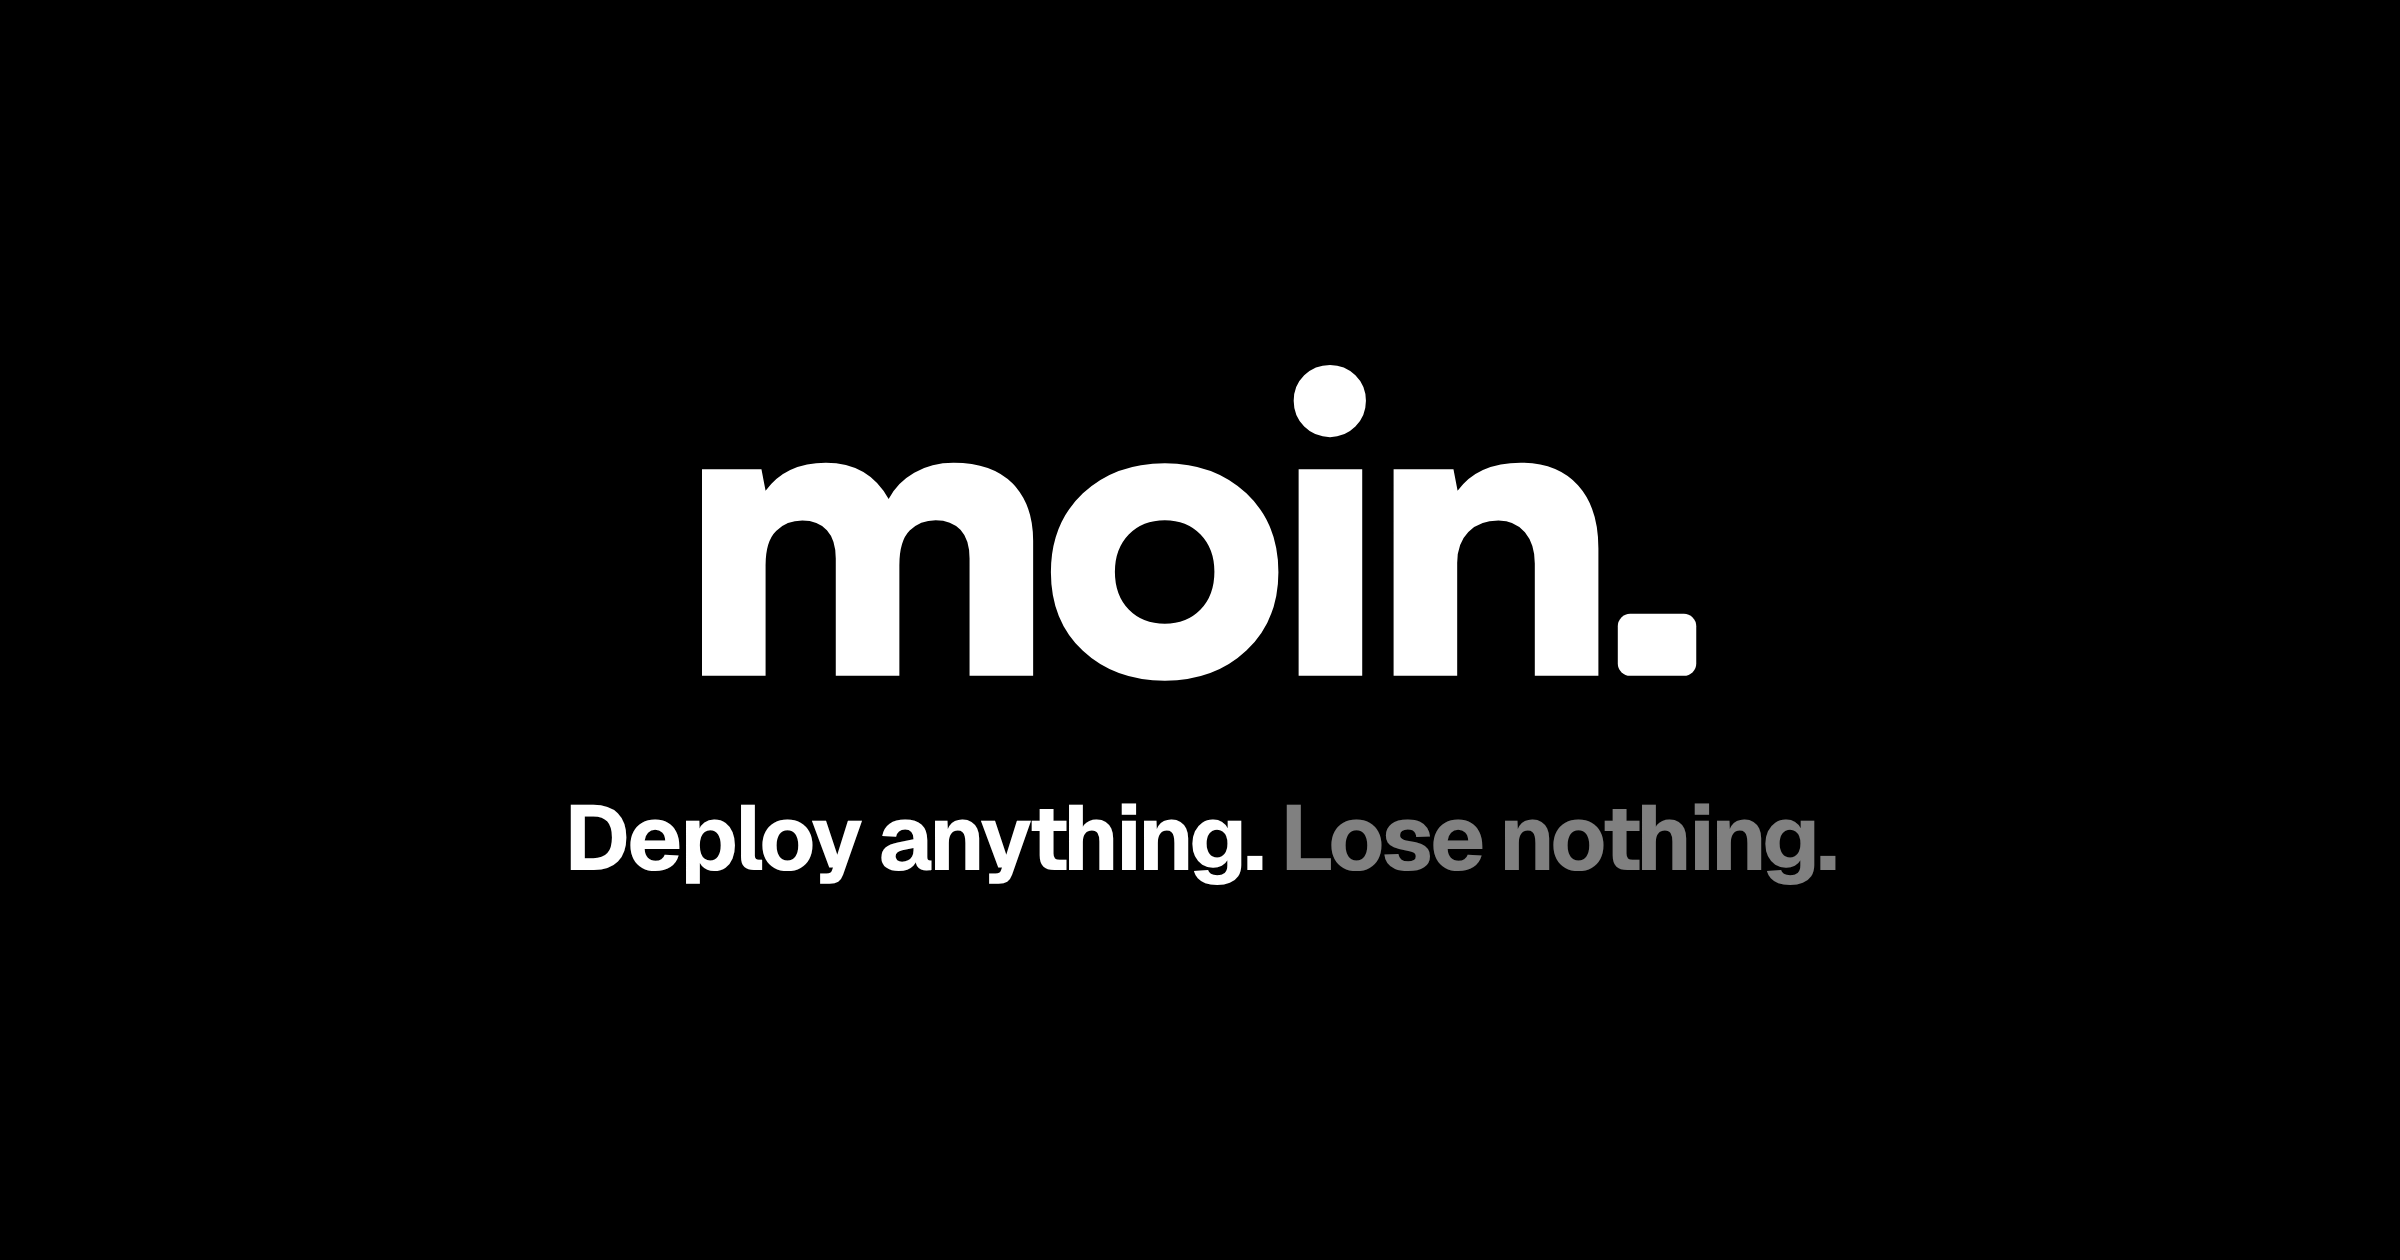
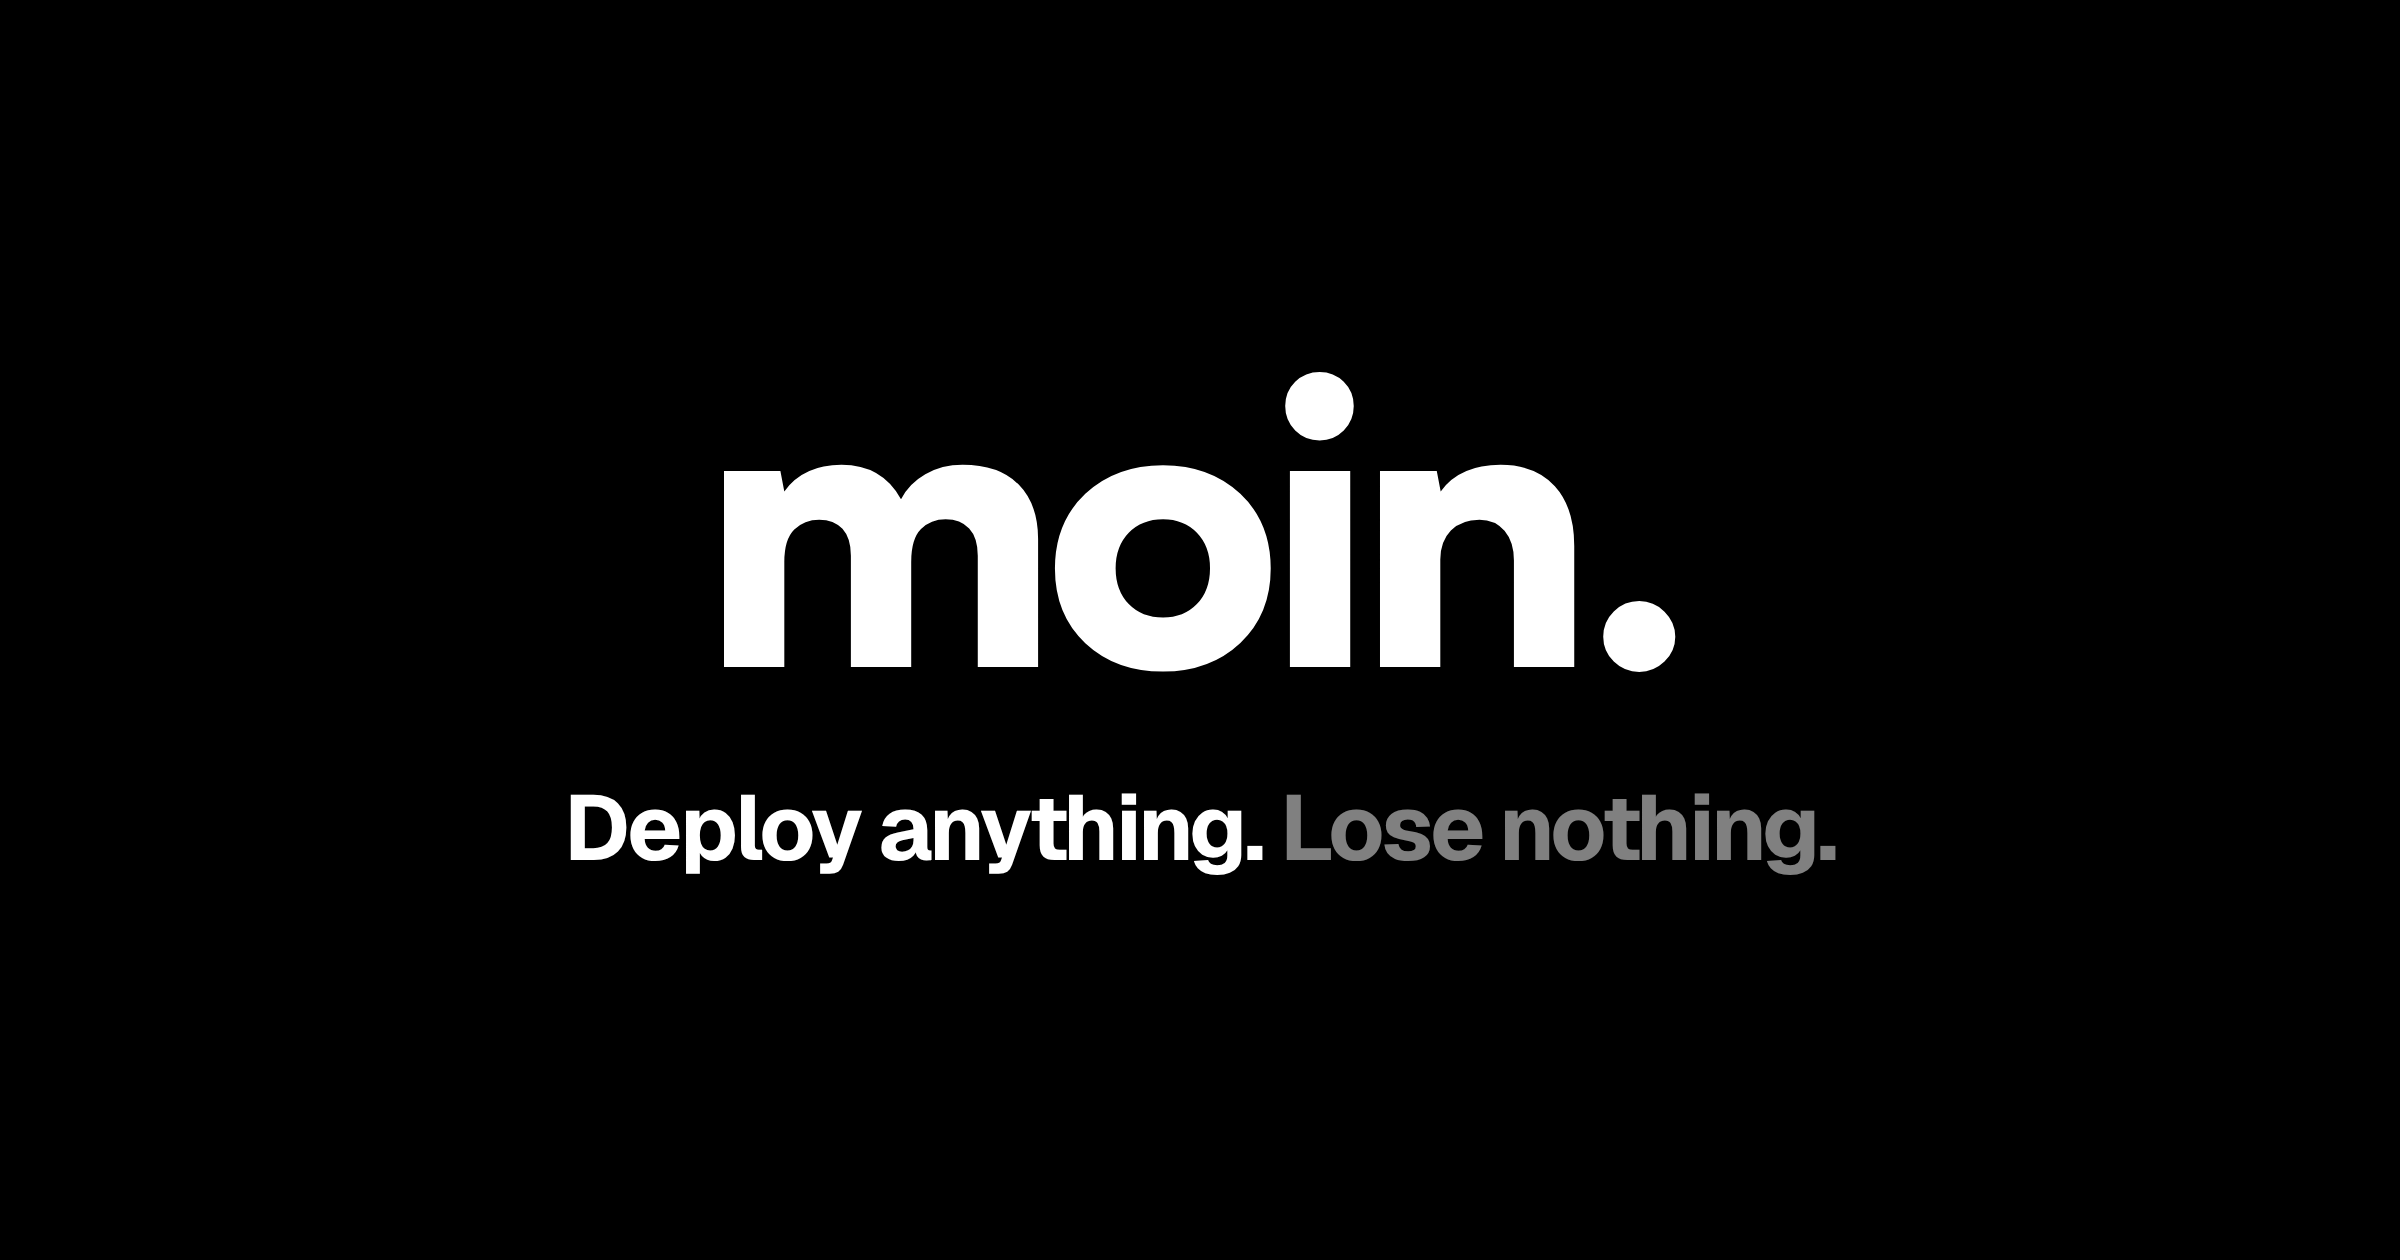
feat(brand): the wordmark uses Satoshi's round full stop

diff --git a/controlplane/DESIGN.md b/controlplane/DESIGN.md
@@ -55,8 +55,8 @@ Tailwind: `font-display` (Geist 800, tight), `bg-brand text-brand-foreground`, `
 `tabular-nums`.
 
 **Logo.** The wordmark `moin.` in Satoshi Black (`font-wordmark`, only
-there), lowercase, its full stop a rounded block a little wider than tall:
-the containers of the port. `blocks.Wordmark` on the page;
+there), lowercase, with Satoshi's own round full stop, round like the dot
+on the i. `blocks.Wordmark` on the page;
 `assets/img/logo.svg`, the favicon (`m.` white on a black tile) and the OG
 image are the same shapes. The story behind the name is Why moin in the FAQ.
 
